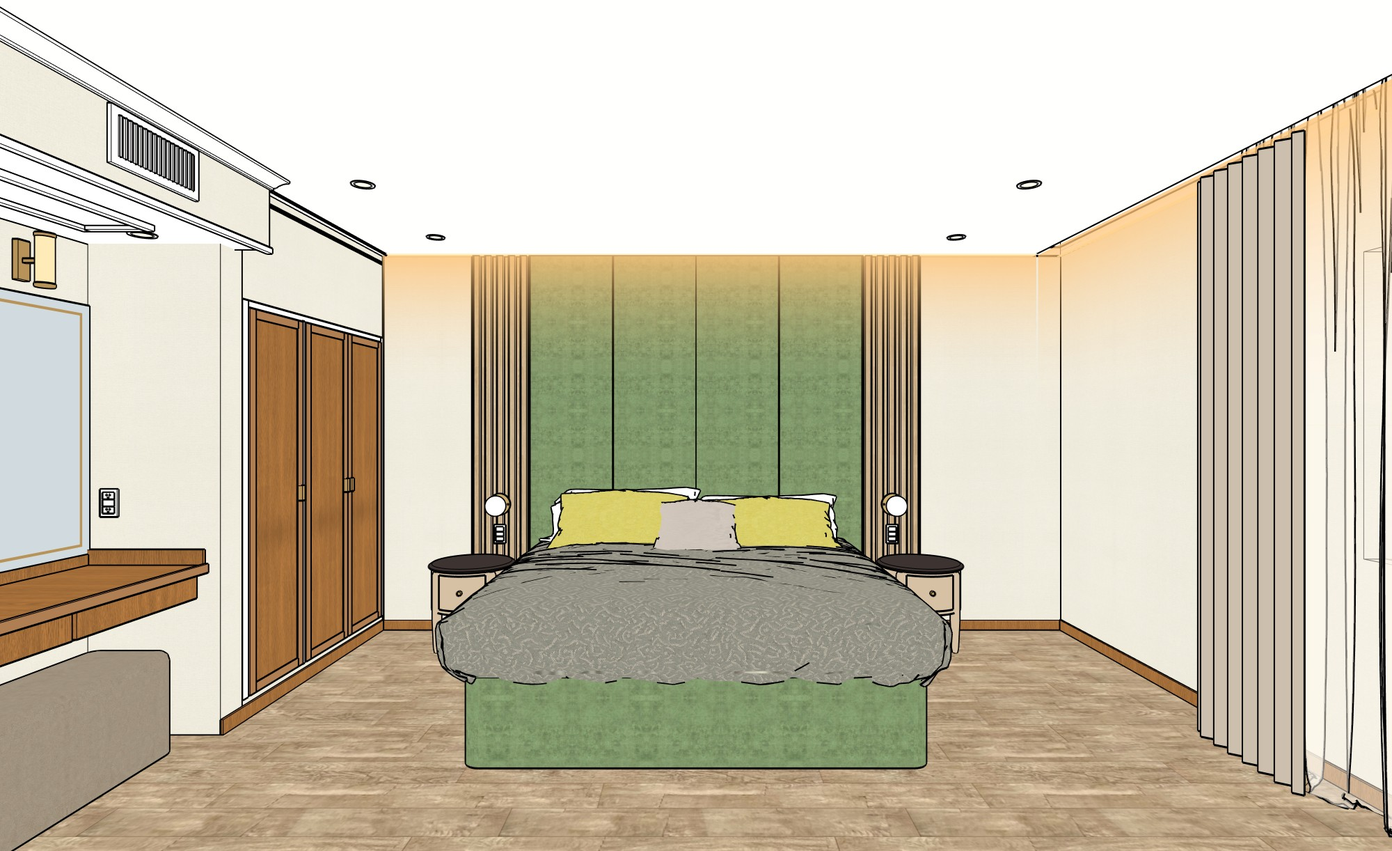
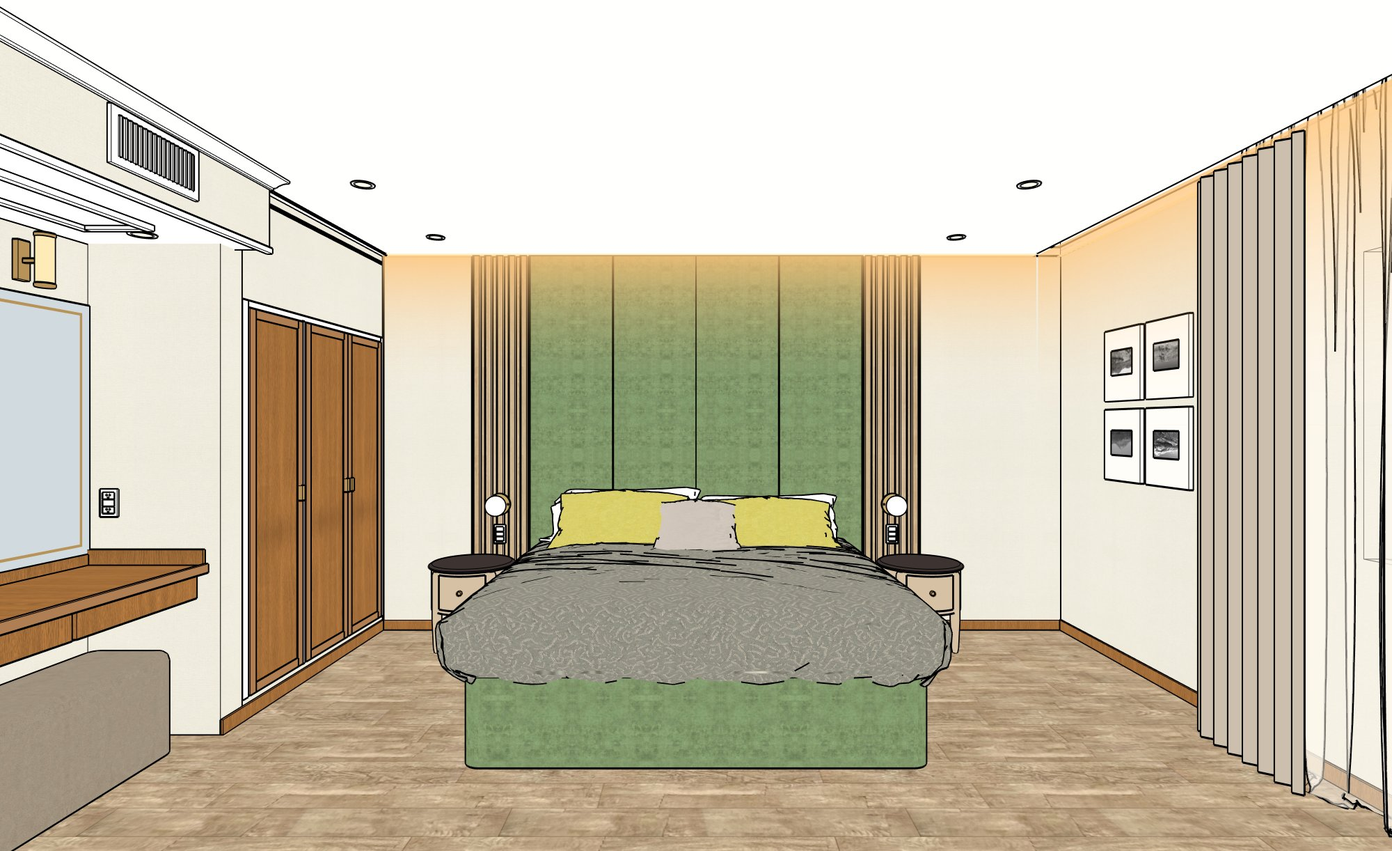
Anteproyecto 201 modelado: set de 4 cuadros en pared lateral (ambas), colgantes Milan en mesas de luz, pie de cama y columna de cuadritos en escritorio (esencial)

Changed region(s): [[0.775, 0.3732, 0.868, 0.5908]]

diff --git a/propuestas/hotel-land-express/proyecto/201/index.html b/propuestas/hotel-land-express/proyecto/201/index.html
@@ -703,7 +703,7 @@
     <div class="op rv" style="--d:0.30s">
       <div class="ph" style="background-image:url('img/B_dorm.jpg')"></div>
       <div class="z">Opción B</div><h3>Esencial</h3><p>Conservamos la estructura existente y la renovamos con papel, pintura, tapizados y piezas puntuales.</p>
-      <ul><li>Papel Muresco Riviera Maison 219954, verde salvia claro, en la pared de la cama y el resto de las paredes pintadas en un tono acorde.</li><li>Cielo raso en blanco tiznado y trío de cuadros de Neuquén sobre el respaldo existente.</li><li>Rack TV bajo en Sahara, a la altura del escritorio, con la placa recortada al contorno del TV.</li><li>Sillones existentes retapizados en Tucson Beige.</li><li>El mismo escritorio (a medida o Ravello), las mismas cortinas y la persiana.</li></ul>
+      <ul><li>Papel Muresco Riviera Maison 219954, verde salvia claro, en la pared de la cama y el resto de las paredes pintadas en un tono acorde.</li><li>Cielo raso en blanco tiznado, colgantes Milan sobre las mesas de luz y pie de cama en panne verde inglés.</li><li>Rack TV bajo en Sahara, a la altura del escritorio, con la placa recortada al contorno del TV.</li><li>Sillones existentes retapizados en Tucson Beige.</li><li>El mismo escritorio (a medida o Ravello), las mismas cortinas y la persiana.</li></ul>
     </div>
   </div></div>
   <div class="num"></div>
@@ -750,7 +750,7 @@
   <div class="t"><h1>Modelado 3D <span>· Dormitorio</span></h1><div class="s">Opción completa · ítem por ítem</div></div>
   <div class="pad"><div class="rnd pins">
     <div class="frame has"><div class="pic" style="--ar:1.637"><img src="img/A_dorm.jpg" alt="Modelado 3D Dormitorio"></div></div>
-    <div class="side"><div class="z rv" style="--d:.15s">Zona</div><h3 class="rv" style="--d:.2s">Qué lleva</h3><div class="objs"><figure class="rv" data-k="0" style="--d:0.30s"><div class="ph" style="background-image:url('img/c_respaldo_a.jpg')"></div><figcaption><b>1</b>Respaldo alto tapizado en panne verde inglés, con faldón</figcaption></figure><figure class="rv" data-k="1" style="--d:0.42s"><div class="ph" style="background-image:url('img/m_sandalo.jpg')"></div><figcaption><b>2</b>Varillado del respaldo en melamina Sándalo (Faplac)</figcaption></figure><figure class="rv" data-k="2" style="--d:0.54s"><div class="ph" style="background-image:url('img/c_led.jpg')"></div><figcaption><b>3</b>Gargantas LED de luz cálida: pared de la cama, cortinas y pasillo de ingreso</figcaption></figure><figure class="rv" data-k="3" style="--d:0.66s"><div class="ph" style="background-image:url('img/c_mesa_luz.jpg')"></div><figcaption><b>4</b>Mesas de luz Hanoi: base en melamina lisa Sahara, más cálida que el blanco y sin vetas</figcaption></figure><figure class="rv" data-k="4" style="--d:0.78s"><div class="ph" style="background-image:url('img/tx_t0.jpg')"></div><figcaption><b>5</b>Cubrecama jacquard en verde grisáceo</figcaption></figure><figure class="rv" data-k="5" style="--d:0.90s"><div class="ph" style="background-image:url('img/c_blackout.jpg')"></div><figcaption><b>6</b>Cortina blackout textil color arena, en riel doble con el voile: de noche no entra luz</figcaption></figure></div></div>
+    <div class="side"><div class="z rv" style="--d:.15s">Zona</div><h3 class="rv" style="--d:.2s">Qué lleva</h3><div class="objs"><figure class="rv" data-k="0" style="--d:0.30s"><div class="ph" style="background-image:url('img/c_respaldo_a.jpg')"></div><figcaption><b>1</b>Respaldo alto tapizado en panne verde inglés, con faldón</figcaption></figure><figure class="rv" data-k="1" style="--d:0.42s"><div class="ph" style="background-image:url('img/m_sandalo.jpg')"></div><figcaption><b>2</b>Varillado del respaldo en melamina Sándalo (Faplac)</figcaption></figure><figure class="rv" data-k="2" style="--d:0.54s"><div class="ph" style="background-image:url('img/c_led.jpg')"></div><figcaption><b>3</b>Gargantas LED de luz cálida: pared de la cama, cortinas y pasillo de ingreso</figcaption></figure><figure class="rv" data-k="3" style="--d:0.66s"><div class="ph" style="background-image:url('img/c_mesa_luz.jpg')"></div><figcaption><b>4</b>Mesas de luz Hanoi: base en melamina lisa Sahara, más cálida que el blanco y sin vetas</figcaption></figure><figure class="rv" data-k="4" style="--d:0.78s"><div class="ph" style="background-image:url('img/c_cuadros.jpg')"></div><figcaption><b>5</b>Set de 4 cuadros de Neuquén en la pared lateral, 2 arriba y 2 abajo, con el borde superior alineado al placard: Bardas, Río Limay, Villa La Angostura y Lanín, en blanco y negro con passepartout y marco blancos</figcaption></figure><figure class="rv" data-k="5" style="--d:0.90s"><div class="ph" style="background-image:url('img/tx_t0.jpg')"></div><figcaption><b>6</b>Cubrecama jacquard en verde grisáceo</figcaption></figure><figure class="rv" data-k="6" style="--d:1.02s"><div class="ph" style="background-image:url('img/c_blackout.jpg')"></div><figcaption><b>7</b>Cortina blackout textil color arena, en riel doble con el voile: de noche no entra luz</figcaption></figure></div></div>
   </div></div>
   <div class="num"></div>
 </section>
@@ -769,7 +769,7 @@
   <div class="t"><h1>Modelado 3D <span>· Dormitorio</span></h1><div class="s">Opción esencial · ítem por ítem</div></div>
   <div class="pad"><div class="rnd pins">
     <div class="frame has"><div class="pic" style="--ar:1.637"><img src="img/B_dorm.jpg" alt="Modelado 3D Dormitorio"></div></div>
-    <div class="side"><div class="z rv" style="--d:.15s">Zona</div><h3 class="rv" style="--d:.2s">Qué lleva</h3><div class="objs"><figure class="rv" data-k="0" style="--d:0.30s"><div class="ph" style="background-image:url('img/tx_riviera.jpg')"></div><figcaption><b>1</b>Papel Muresco Riviera Maison 219954, verde salvia claro, textura tipo lino, en la pared de la cama</figcaption></figure><figure class="rv" data-k="1" style="--d:0.42s"><div class="ph" style="background-image:url('img/sw_pared_b.jpg')"></div><figcaption><b>2</b>Resto de las paredes pintadas en tono acorde al papel (no blanco). Todo lo que es pared va pintado; molduras y cielo raso en blanco tiznado</figcaption></figure><figure class="rv" data-k="2" style="--d:0.54s"><div class="ph" style="background-image:url('img/c_mesa_luz.jpg')"></div><figcaption><b>3</b>Mesas de luz Hanoi: base en melamina lisa Sahara, más cálida que el blanco y sin vetas</figcaption></figure><figure class="rv" data-k="3" style="--d:0.66s"><div class="ph" style="background-image:url('img/c_cuadros.jpg')"></div><figcaption><b>4</b>Trío de cuadros de Neuquén: Bardas, Río Limay y Villa La Angostura, fotos en blanco y negro con passepartout y marco blancos</figcaption></figure><figure class="rv" data-k="4" style="--d:0.78s"><div class="ph" style="background-image:url('img/c_respaldo_b.jpg')"></div><figcaption><b>5</b>Respaldo de cuero existente, se conserva</figcaption></figure><figure class="rv" data-k="5" style="--d:0.90s"><div class="ph" style="background-image:url('img/tx_t0.jpg')"></div><figcaption><b>6</b>Cubrecama jacquard en verde grisáceo</figcaption></figure><figure class="rv" data-k="6" style="--d:1.02s"><div class="ph" style="background-image:url('img/c_blackout.jpg')"></div><figcaption><b>7</b>Cortina blackout textil color arena, en riel doble con el voile: de noche no entra luz</figcaption></figure></div></div>
+    <div class="side"><div class="z rv" style="--d:.15s">Zona</div><h3 class="rv" style="--d:.2s">Qué lleva</h3><div class="objs many"><figure class="rv" data-k="0" style="--d:0.30s"><div class="ph" style="background-image:url('img/tx_riviera.jpg')"></div><figcaption><b>1</b>Papel Muresco Riviera Maison 219954, verde salvia claro, textura tipo lino, en la pared de la cama</figcaption></figure><figure class="rv" data-k="1" style="--d:0.42s"><div class="ph" style="background-image:url('img/sw_pared_b.jpg')"></div><figcaption><b>2</b>Resto de las paredes pintadas en tono acorde al papel (no blanco). Todo lo que es pared va pintado; molduras y cielo raso en blanco tiznado</figcaption></figure><figure class="rv" data-k="2" style="--d:0.54s"><div class="ph" style="background-image:url('img/c_mesa_luz.jpg')"></div><figcaption><b>3</b>Mesas de luz Hanoi: base en melamina lisa Sahara, más cálida que el blanco y sin vetas</figcaption></figure><figure class="rv" data-k="3" style="--d:0.66s"><div class="ph" style="background-image:url('img/c_cuadros.jpg')"></div><figcaption><b>4</b>Set de 4 cuadros de Neuquén en la pared lateral, 2 arriba y 2 abajo, con el borde superior alineado al placard: Bardas, Río Limay, Villa La Angostura y Lanín, en blanco y negro con passepartout y marco blancos</figcaption></figure><figure class="rv" data-k="4" style="--d:0.78s"><div class="ph" style="background-image:url('img/c_colgantes_luz.jpg')"></div><figcaption><b>5</b>Colgantes Milan sobre las mesas de luz, los mismos del escritorio, a 1,65 m del piso: quedan fuera del alcance al sentarse en la cama</figcaption></figure><figure class="rv" data-k="5" style="--d:0.90s"><div class="ph" style="background-image:url('img/c_pie_cama.jpg')"></div><figcaption><b>6</b>Pie de cama en panne verde inglés, 0,50 de ancho, cae a los costados</figcaption></figure><figure class="rv" data-k="6" style="--d:1.02s"><div class="ph" style="background-image:url('img/c_respaldo_b.jpg')"></div><figcaption><b>7</b>Respaldo de cuero existente, se conserva</figcaption></figure><figure class="rv" data-k="7" style="--d:1.14s"><div class="ph" style="background-image:url('img/tx_t0.jpg')"></div><figcaption><b>8</b>Cubrecama jacquard en verde grisáceo</figcaption></figure><figure class="rv" data-k="8" style="--d:1.26s"><div class="ph" style="background-image:url('img/c_blackout.jpg')"></div><figcaption><b>9</b>Cortina blackout textil color arena, en riel doble con el voile: de noche no entra luz</figcaption></figure></div></div>
   </div></div>
   <div class="num"></div>
 </section>
@@ -791,7 +791,7 @@
   <div class="t"><h1>Modelado 3D <span>· Escritorio y rack TV</span></h1><div class="s">Opción completa · ítem por ítem</div></div>
   <div class="pad"><div class="rnd pins">
     <div class="frame has"><div class="pic" style="--ar:1.637"><img src="img/A_esc.jpg" alt="Modelado 3D Escritorio y rack TV"></div></div>
-    <div class="side"><div class="z rv" style="--d:.15s">Zona</div><h3 class="rv" style="--d:.2s">Qué lleva</h3><div class="objs"><figure class="rv" data-k="0" style="--d:0.30s"><div class="ph" style="background-image:url('img/o_milan.jpg')"></div><figcaption><b>1</b>Colgantes Milan (Kolor Iluminación), Ø 0,12 × 0,18, negro con detalles cobre. Dos unidades a distinta altura</figcaption></figure><figure class="rv" data-k="1" style="--d:0.42s"><div class="ph" style="background-image:url('img/o_colgante.jpg')"></div><figcaption><b>2</b>Alternativa · Colgante Rain (Indigo Lumières) en dorado, el de la propuesta anterior</figcaption><a class="lnk" href="https://indigolumieres.com/productos/rain/" target="_blank" rel="noopener">Ver producto ↗</a></figure><figure class="rv" data-k="2" style="--d:0.54s"><div class="ph" style="background-image:url('img/o_687.webp')"></div><figcaption><b>3</b>Silla Simet 687, 0,52 × 0,59 × h 0,765, estructura dorada, tapizado Pana Donn antimancha color arena</figcaption><a class="lnk" href="https://simet.com.ar/silla687/" target="_blank" rel="noopener">Ver producto ↗</a></figure><figure class="rv" data-k="3" style="--d:0.66s"><div class="ph" style="background-image:url('img/o_oslo.webp')"></div><figcaption><b>4</b>Variante · Silla Oslo (Antequera), 0,48 × 0,48 × h 0,78, lenga lustrada y asiento tapizado</figcaption><a class="lnk" href="https://antequeramuebles.com.ar/productos/silla-oslo/" target="_blank" rel="noopener">Ver producto ↗</a></figure><figure class="rv" data-k="4" style="--d:0.78s"><div class="ph" style="background-image:url('img/c_escritorio_a.jpg')"></div><figcaption><b>5</b>Escritorio a medida: tapa en melamina lisa Sahara y pata cilindro en Sándalo (Faplac)</figcaption></figure><figure class="rv" data-k="5" style="--d:0.90s"><div class="ph" style="background-image:url('img/c_varillado_esc.jpg')"></div><figcaption><b>6</b>Varillado Sahara sobre la pared del escritorio, desde la tapa hacia arriba: continúa el del rack. El cuadro que estaba ahí se reubica en otra pared</figcaption></figure><figure class="rv" data-k="6" style="--d:1.02s"><div class="ph" style="background-image:url('img/o_ravello.jpg')"></div><figcaption><b>7</b>Variante estandarizada · Escritorio Ravello (Dellacasa), 1,40 × 0,50 × h 0,75. Viene en petiribí: consultar a Dellacasa un lustre más claro, tipo Sándalo, como en el modelado</figcaption><a class="lnk" href="https://dellacasa.com.ar/producto/office/escritorios/escritorio-ravello/" target="_blank" rel="noopener">Ver producto ↗</a></figure><figure class="rv" data-k="7" style="--d:1.14s"><div class="ph" style="background-image:url('img/c_rack_a.jpg')"></div><figcaption><b>8</b>Rack TV giratorio con varillado, marco sobre la viga y laterales en melamina lisa Sahara</figcaption></figure></div></div>
+    <div class="side"><div class="z rv" style="--d:.15s">Zona</div><h3 class="rv" style="--d:.2s">Qué lleva</h3><div class="objs"><figure class="rv" data-k="0" style="--d:0.30s"><div class="ph" style="background-image:url('img/o_milan.jpg')"></div><figcaption><b>1</b>Colgantes Milan (Kolor Iluminación), Ø 0,12 × 0,18, negro con detalles cobre. Dos unidades a distinta altura</figcaption></figure><figure class="rv" data-k="1" style="--d:0.42s"><div class="ph" style="background-image:url('img/o_colgante.jpg')"></div><figcaption><b>2</b>Alternativa · Colgante Rain (Indigo Lumières) en dorado, el de la propuesta anterior</figcaption><a class="lnk" href="https://indigolumieres.com/productos/rain/" target="_blank" rel="noopener">Ver producto ↗</a></figure><figure class="rv" data-k="2" style="--d:0.54s"><div class="ph" style="background-image:url('img/o_687.webp')"></div><figcaption><b>3</b>Silla Simet 687, 0,52 × 0,59 × h 0,765, estructura dorada, tapizado Pana Donn antimancha color arena</figcaption><a class="lnk" href="https://simet.com.ar/silla687/" target="_blank" rel="noopener">Ver producto ↗</a></figure><figure class="rv" data-k="3" style="--d:0.66s"><div class="ph" style="background-image:url('img/o_oslo.webp')"></div><figcaption><b>4</b>Variante · Silla Oslo (Antequera), 0,48 × 0,48 × h 0,78, lenga lustrada y asiento tapizado</figcaption><a class="lnk" href="https://antequeramuebles.com.ar/productos/silla-oslo/" target="_blank" rel="noopener">Ver producto ↗</a></figure><figure class="rv" data-k="4" style="--d:0.78s"><div class="ph" style="background-image:url('img/c_escritorio_a.jpg')"></div><figcaption><b>5</b>Escritorio a medida: tapa en melamina lisa Sahara y pata cilindro en Sándalo (Faplac)</figcaption></figure><figure class="rv" data-k="5" style="--d:0.90s"><div class="ph" style="background-image:url('img/c_varillado_esc.jpg')"></div><figcaption><b>6</b>Varillado Sahara sobre la pared del escritorio, desde la tapa hacia arriba: continúa el del rack. El cuadro que estaba ahí se reemplaza por el set de 4 de la pared lateral del dormitorio</figcaption></figure><figure class="rv" data-k="6" style="--d:1.02s"><div class="ph" style="background-image:url('img/o_ravello.jpg')"></div><figcaption><b>7</b>Variante estandarizada · Escritorio Ravello (Dellacasa), 1,40 × 0,50 × h 0,75. Viene en petiribí: consultar a Dellacasa un lustre más claro, tipo Sándalo, como en el modelado</figcaption><a class="lnk" href="https://dellacasa.com.ar/producto/office/escritorios/escritorio-ravello/" target="_blank" rel="noopener">Ver producto ↗</a></figure><figure class="rv" data-k="7" style="--d:1.14s"><div class="ph" style="background-image:url('img/c_rack_a.jpg')"></div><figcaption><b>8</b>Rack TV giratorio con varillado, marco sobre la viga y laterales en melamina lisa Sahara</figcaption></figure></div></div>
   </div></div>
   <div class="num"></div>
 </section>
@@ -810,7 +810,7 @@
   <div class="t"><h1>Modelado 3D <span>· Escritorio y rack TV</span></h1><div class="s">Opción esencial · ítem por ítem</div></div>
   <div class="pad"><div class="rnd pins">
     <div class="frame has"><div class="pic" style="--ar:1.637"><img src="img/B_esc.jpg" alt="Modelado 3D Escritorio y rack TV"></div></div>
-    <div class="side"><div class="z rv" style="--d:.15s">Zona</div><h3 class="rv" style="--d:.2s">Qué lleva</h3><div class="objs"><figure class="rv" data-k="0" style="--d:0.30s"><div class="ph" style="background-image:url('img/o_milan.jpg')"></div><figcaption><b>1</b>Colgantes Milan (Kolor Iluminación), Ø 0,12 × 0,18, negro con detalles cobre. Dos unidades a distinta altura</figcaption></figure><figure class="rv" data-k="1" style="--d:0.42s"><div class="ph" style="background-image:url('img/o_colgante.jpg')"></div><figcaption><b>2</b>Alternativa · Colgante Rain (Indigo Lumières) en dorado, el de la propuesta anterior</figcaption><a class="lnk" href="https://indigolumieres.com/productos/rain/" target="_blank" rel="noopener">Ver producto ↗</a></figure><figure class="rv" data-k="2" style="--d:0.54s"><div class="ph" style="background-image:url('img/o_687.webp')"></div><figcaption><b>3</b>Silla Simet 687, 0,52 × 0,59 × h 0,765, estructura dorada, tapizado Pana Donn antimancha color arena</figcaption><a class="lnk" href="https://simet.com.ar/silla687/" target="_blank" rel="noopener">Ver producto ↗</a></figure><figure class="rv" data-k="3" style="--d:0.66s"><div class="ph" style="background-image:url('img/o_oslo.webp')"></div><figcaption><b>4</b>Variante · Silla Oslo (Antequera), 0,48 × 0,48 × h 0,78, lenga lustrada y asiento tapizado</figcaption><a class="lnk" href="https://antequeramuebles.com.ar/productos/silla-oslo/" target="_blank" rel="noopener">Ver producto ↗</a></figure><figure class="rv" data-k="4" style="--d:0.78s"><div class="ph" style="background-image:url('img/c_escritorio_a.jpg')"></div><figcaption><b>5</b>Escritorio a medida: tapa en melamina lisa Sahara y pata cilindro en Sándalo (Faplac)</figcaption></figure><figure class="rv" data-k="5" style="--d:0.90s"><div class="ph" style="background-image:url('img/o_ravello.jpg')"></div><figcaption><b>6</b>Variante estandarizada · Escritorio Ravello (Dellacasa), 1,40 × 0,50 × h 0,75. Viene en petiribí: consultar a Dellacasa un lustre más claro, tipo Sándalo, como en el modelado</figcaption><a class="lnk" href="https://dellacasa.com.ar/producto/office/escritorios/escritorio-ravello/" target="_blank" rel="noopener">Ver producto ↗</a></figure><figure class="rv" data-k="6" style="--d:1.02s"><div class="ph" style="background-image:url('img/c_rack_b.jpg')"></div><figcaption><b>7</b>Rack bajo en melamina lisa Sahara: a la altura del escritorio, estante a cada lado con división central (por ahí sube el caño del giro) y placa recortada al contorno del TV</figcaption></figure></div></div>
+    <div class="side"><div class="z rv" style="--d:.15s">Zona</div><h3 class="rv" style="--d:.2s">Qué lleva</h3><div class="objs"><figure class="rv" data-k="0" style="--d:0.30s"><div class="ph" style="background-image:url('img/o_milan.jpg')"></div><figcaption><b>1</b>Colgantes Milan (Kolor Iluminación), Ø 0,12 × 0,18, negro con detalles cobre. Dos unidades a distinta altura</figcaption></figure><figure class="rv" data-k="1" style="--d:0.42s"><div class="ph" style="background-image:url('img/o_colgante.jpg')"></div><figcaption><b>2</b>Alternativa · Colgante Rain (Indigo Lumières) en dorado, el de la propuesta anterior</figcaption><a class="lnk" href="https://indigolumieres.com/productos/rain/" target="_blank" rel="noopener">Ver producto ↗</a></figure><figure class="rv" data-k="2" style="--d:0.54s"><div class="ph" style="background-image:url('img/o_687.webp')"></div><figcaption><b>3</b>Silla Simet 687, 0,52 × 0,59 × h 0,765, estructura dorada, tapizado Pana Donn antimancha color arena</figcaption><a class="lnk" href="https://simet.com.ar/silla687/" target="_blank" rel="noopener">Ver producto ↗</a></figure><figure class="rv" data-k="3" style="--d:0.66s"><div class="ph" style="background-image:url('img/o_oslo.webp')"></div><figcaption><b>4</b>Variante · Silla Oslo (Antequera), 0,48 × 0,48 × h 0,78, lenga lustrada y asiento tapizado</figcaption><a class="lnk" href="https://antequeramuebles.com.ar/productos/silla-oslo/" target="_blank" rel="noopener">Ver producto ↗</a></figure><figure class="rv" data-k="4" style="--d:0.78s"><div class="ph" style="background-image:url('img/c_escritorio_a.jpg')"></div><figcaption><b>5</b>Escritorio a medida: tapa en melamina lisa Sahara y pata cilindro en Sándalo (Faplac)</figcaption></figure><figure class="rv" data-k="5" style="--d:0.90s"><div class="ph" style="background-image:url('img/c_cuadros_esc.jpg')"></div><figcaption><b>6</b>Columna de 3 cuadritos de 0,22 × 0,26 en blanco y negro (Lago, Bardas y Villa La Angostura), centrada a la altura de los colgantes para equilibrar la pared</figcaption></figure><figure class="rv" data-k="6" style="--d:1.02s"><div class="ph" style="background-image:url('img/o_ravello.jpg')"></div><figcaption><b>7</b>Variante estandarizada · Escritorio Ravello (Dellacasa), 1,40 × 0,50 × h 0,75. Viene en petiribí: consultar a Dellacasa un lustre más claro, tipo Sándalo, como en el modelado</figcaption><a class="lnk" href="https://dellacasa.com.ar/producto/office/escritorios/escritorio-ravello/" target="_blank" rel="noopener">Ver producto ↗</a></figure><figure class="rv" data-k="7" style="--d:1.14s"><div class="ph" style="background-image:url('img/c_rack_b.jpg')"></div><figcaption><b>8</b>Rack bajo en melamina lisa Sahara: a la altura del escritorio, estante a cada lado con división central (por ahí sube el caño del giro) y placa recortada al contorno del TV</figcaption></figure></div></div>
   </div></div>
   <div class="num"></div>
 </section>

diff --git a/propuestas/hotel-land-express/proyecto/_build/data201.js b/propuestas/hotel-land-express/proyecto/_build/data201.js
@@ -21,7 +21,7 @@ module.exports = {
       p: 'Conservamos la estructura existente y la renovamos con papel, pintura, tapizados y piezas puntuales.',
       items: [
         'Papel Muresco Riviera Maison 219954, verde salvia claro, en la pared de la cama y el resto de las paredes pintadas en un tono acorde.',
-        'Cielo raso en blanco tiznado y trío de cuadros de Neuquén sobre el respaldo existente.',
+        'Cielo raso en blanco tiznado, colgantes Milan sobre las mesas de luz y pie de cama en panne verde inglés.',
         'Rack TV bajo en Sahara, a la altura del escritorio, con la placa recortada al contorno del TV.',
         'Sillones existentes retapizados en Tucson Beige.',
         'El mismo escritorio (a medida o Ravello), las mismas cortinas y la persiana.'
@@ -47,7 +47,7 @@ module.exports = {
 
   zonas: [
     { zona: 'Dormitorio', img: 'A_dorm.jpg', ar: R, alt: AB('A_dorm.jpg', 'B_dorm.jpg'), zt: 'Qué cambia', st: 'Dormitorio',
-      items: ['<b>Completa:</b> respaldo alto en panne verde inglés con varillado Sándalo y gargantas LED cálidas.', '<b>Esencial:</b> papel Riviera Maison 219954 verde salvia claro en la cabecera, paredes en tono acorde y trío de cuadros de Neuquén.', 'En las dos: blackout textil para dormir a oscuras, voile, cielo raso blanco tiznado y spots de luz cálida.'],
+      items: ['<b>Completa:</b> respaldo alto en panne verde inglés con varillado Sándalo y gargantas LED cálidas.', '<b>Esencial:</b> papel Riviera Maison 219954 verde salvia claro en la cabecera, paredes en tono acorde, colgantes Milan sobre las mesas de luz y pie de cama en panne verde inglés.', 'En las dos: set de 4 cuadros de Neuquén en blanco y negro en la pared lateral, blackout textil para dormir a oscuras, voile, cielo raso blanco tiznado y spots de luz cálida.'],
       pins: [
         { img: 'c_respaldo_a.jpg', t: 'Completa · Respaldo alto tapizado en panne verde inglés, con faldón' },
         { img: 'm_sandalo.jpg', t: 'Completa · Varillado del respaldo en melamina Sándalo (Faplac)' },
@@ -55,21 +55,24 @@ module.exports = {
         { img: 'tx_riviera.jpg', t: 'Esencial · Papel Muresco Riviera Maison 219954, verde salvia claro, textura tipo lino, en la pared de la cama' },
         { img: 'sw_pared_b.jpg', t: 'Esencial · Resto de las paredes pintadas en tono acorde al papel (no blanco). Todo lo que es pared va pintado; molduras y cielo raso en blanco tiznado' },
         { img: 'c_mesa_luz.jpg', t: 'Las dos · Mesas de luz Hanoi: base en melamina lisa Sahara, más cálida que el blanco y sin vetas' },
-        { img: 'c_cuadros.jpg', t: 'Esencial · Trío de cuadros de Neuquén: Bardas, Río Limay y Villa La Angostura, fotos en blanco y negro con passepartout y marco blancos' },
+        { img: 'c_cuadros.jpg', t: 'Las dos · Set de 4 cuadros de Neuquén en la pared lateral, 2 arriba y 2 abajo, con el borde superior alineado al placard: Bardas, Río Limay, Villa La Angostura y Lanín, en blanco y negro con passepartout y marco blancos' },
+        { img: 'c_colgantes_luz.jpg', t: 'Esencial · Colgantes Milan sobre las mesas de luz, los mismos del escritorio, a 1,65 m del piso: quedan fuera del alcance al sentarse en la cama' },
+        { img: 'c_pie_cama.jpg', t: 'Esencial · Pie de cama en panne verde inglés, 0,50 de ancho, cae a los costados' },
         { img: 'c_respaldo_b.jpg', t: 'Esencial · Respaldo de cuero existente, se conserva' },
         { img: 'tx_t0.jpg', t: 'Las dos · Cubrecama jacquard en verde grisáceo' },
         { img: 'c_blackout.jpg', t: 'Las dos · Cortina blackout textil color arena, en riel doble con el voile: de noche no entra luz' }
       ] },
 
     { zona: 'Escritorio y rack TV', img: 'A_esc.jpg', ar: R, alt: AB('A_esc.jpg', 'B_esc.jpg'), zt: 'Qué cambia', st: 'Escritorio y rack TV',
-      items: ['<b>Completa:</b> rack giratorio alto con varillado, que sigue sobre la pared del escritorio.', '<b>Esencial:</b> rack bajo en Sahara, a la altura del escritorio, con la placa recortada al contorno del TV.', 'En las dos: el mismo escritorio (a medida o Ravello), dos colgantes Milan a distinta altura y dos opciones de silla.'],
+      items: ['<b>Completa:</b> rack giratorio alto con varillado, que sigue sobre la pared del escritorio.', '<b>Esencial:</b> rack bajo en Sahara, a la altura del escritorio, con la placa recortada al contorno del TV, y columna de 3 cuadritos junto a los colgantes.', 'En las dos: el mismo escritorio (a medida o Ravello), dos colgantes Milan a distinta altura y dos opciones de silla.'],
       pins: [
         { img: 'o_milan.jpg', t: 'Las dos · Colgantes Milan (Kolor Iluminación), Ø 0,12 × 0,18, negro con detalles cobre. Dos unidades a distinta altura' },
         { img: 'o_colgante.jpg', t: 'Alternativa · Colgante Rain (Indigo Lumières) en dorado, el de la propuesta anterior', url: 'https://indigolumieres.com/productos/rain/' },
         { img: 'o_687.webp', t: 'Las dos · Silla Simet 687, 0,52 × 0,59 × h 0,765, estructura dorada, tapizado Pana Donn antimancha color arena', url: 'https://simet.com.ar/silla687/' },
         { img: 'o_oslo.webp', t: 'Las dos, opción 2 · Silla Oslo (Antequera), 0,48 × 0,48 × h 0,78, lenga lustrada y asiento tapizado', url: 'https://antequeramuebles.com.ar/productos/silla-oslo/' },
         { img: 'c_escritorio_a.jpg', t: 'Las dos · Escritorio a medida: tapa en melamina lisa Sahara y pata cilindro en Sándalo (Faplac)' },
-        { img: 'c_varillado_esc.jpg', t: 'Completa · Varillado Sahara sobre la pared del escritorio, desde la tapa hacia arriba: continúa el del rack. El cuadro que estaba ahí se reubica en otra pared' },
+        { img: 'c_varillado_esc.jpg', t: 'Completa · Varillado Sahara sobre la pared del escritorio, desde la tapa hacia arriba: continúa el del rack. El cuadro que estaba ahí se reemplaza por el set de 4 de la pared lateral del dormitorio' },
+        { img: 'c_cuadros_esc.jpg', t: 'Esencial · Columna de 3 cuadritos de 0,22 × 0,26 en blanco y negro (Lago, Bardas y Villa La Angostura), centrada a la altura de los colgantes para equilibrar la pared' },
         { img: 'o_ravello.jpg', t: 'Las dos, opción estandarizada · Escritorio Ravello (Dellacasa), 1,40 × 0,50 × h 0,75. Viene en petiribí: consultar a Dellacasa un lustre más claro, tipo Sándalo, como en el modelado', url: 'https://dellacasa.com.ar/producto/office/escritorios/escritorio-ravello/' },
         { img: 'c_rack_a.jpg', t: 'Completa · Rack TV giratorio con varillado, marco sobre la viga y laterales en melamina lisa Sahara' },
         { img: 'c_rack_b.jpg', t: 'Esencial · Rack bajo en melamina lisa Sahara: a la altura del escritorio, estante a cada lado con división central (por ahí sube el caño del giro) y placa recortada al contorno del TV' }
